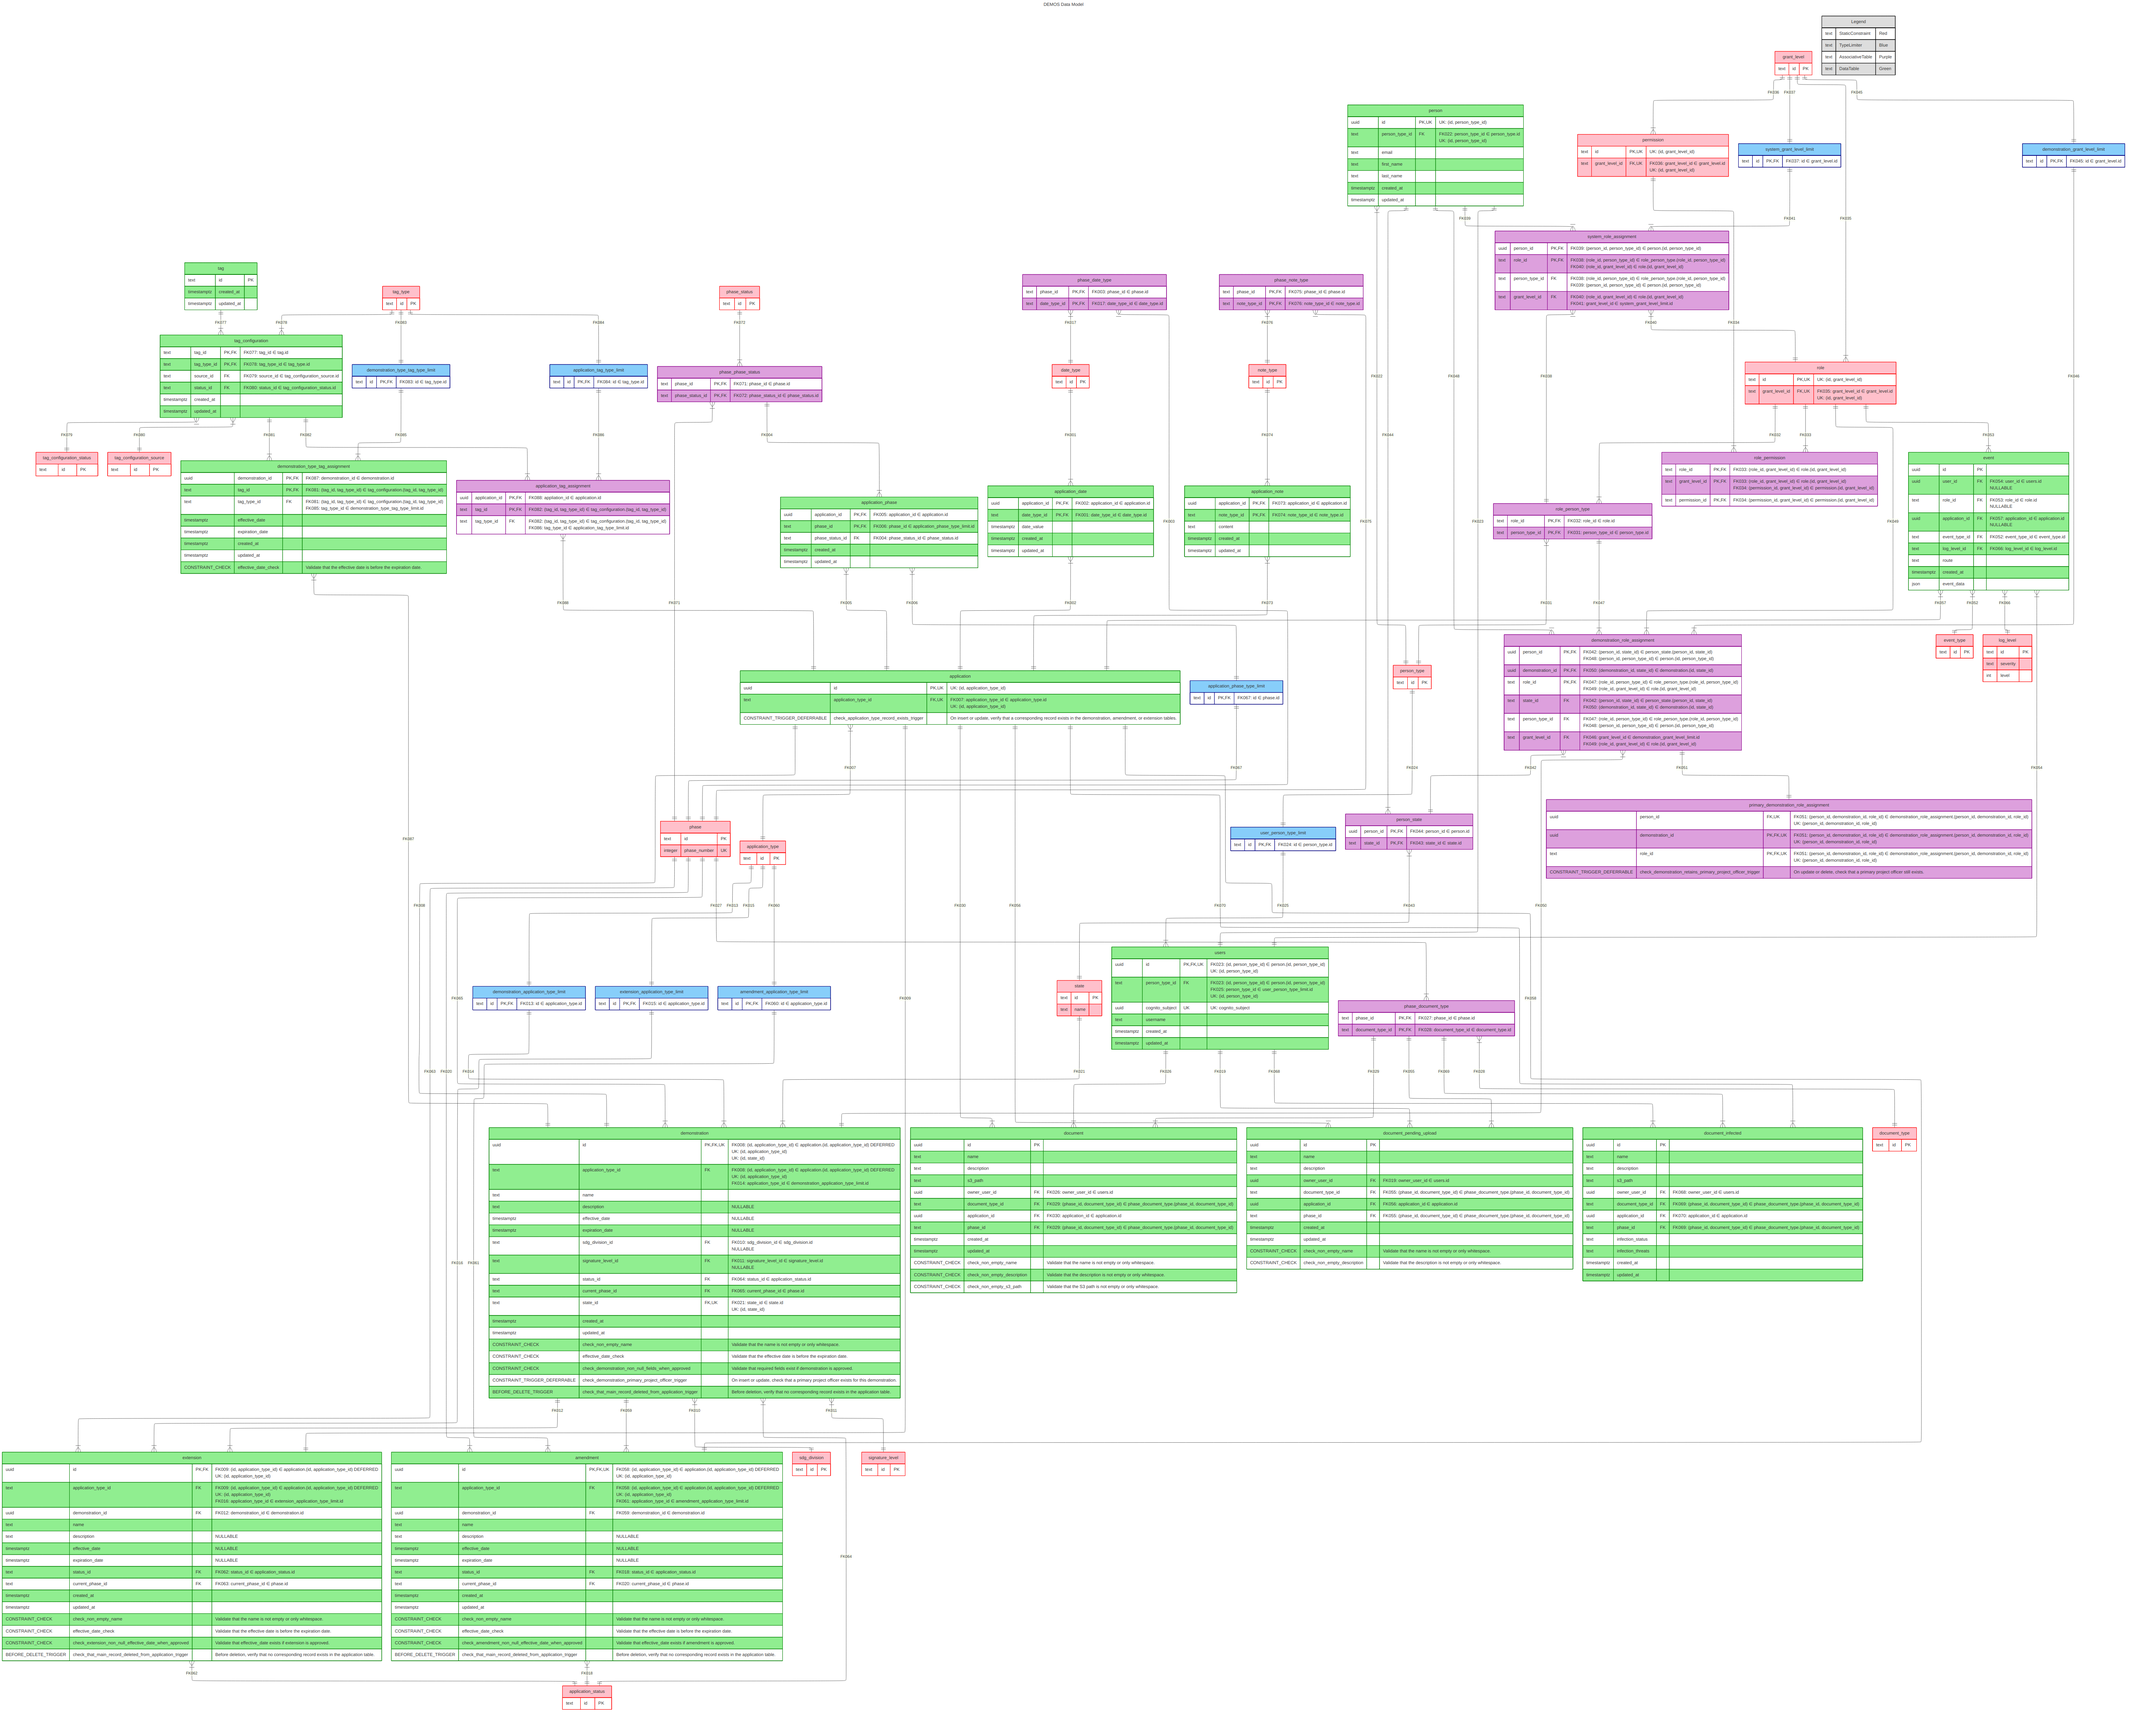
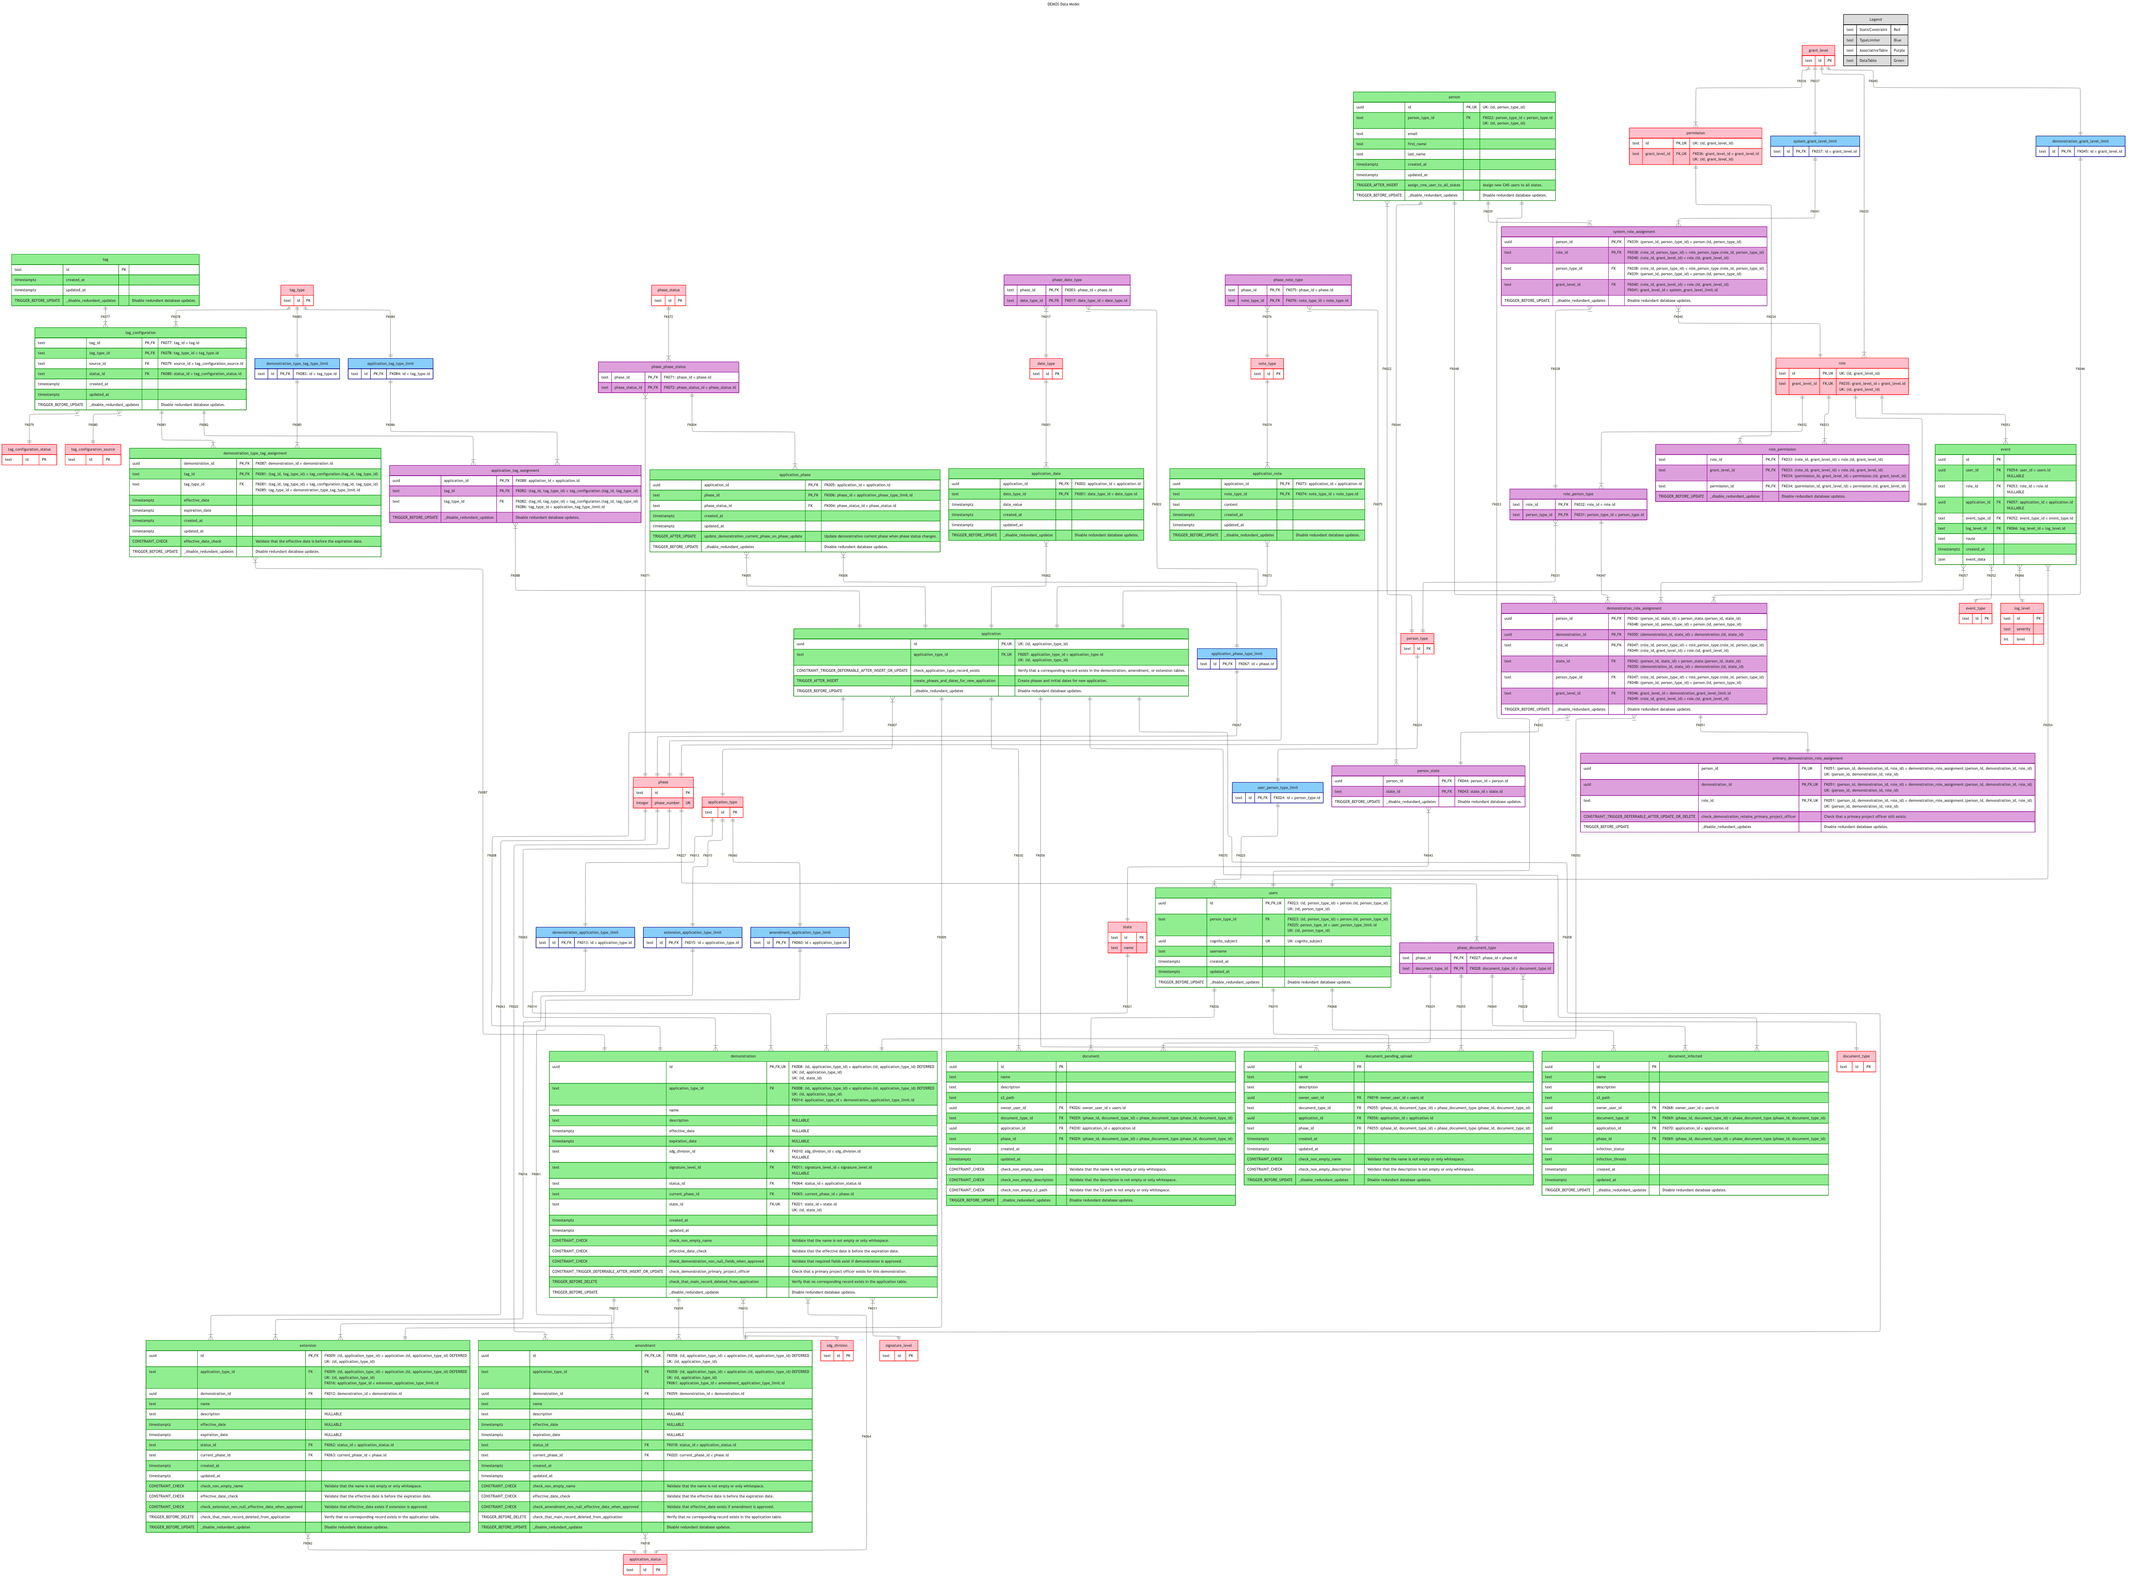
Rename existing triggers and line up documentation and file.

diff --git a/data/utilities/scripts/history_trigger_generator.py b/data/utilities/scripts/history_trigger_generator.py
@@ -186,7 +186,7 @@ def get_trigger_code(prisma_lines: List[str]) -> str:
     END;
     $$ LANGUAGE plpgsql;
 
-    CREATE OR REPLACE TRIGGER log_changes_{table_name}_trigger
+    CREATE OR REPLACE TRIGGER log_changes_{table_name}
     AFTER INSERT OR UPDATE OR DELETE ON {APP_SCHEMA}.{table_name}
     FOR EACH ROW EXECUTE FUNCTION {APP_SCHEMA}.log_changes_{table_name}();"""
     query = query.replace("\n", "", 1)
